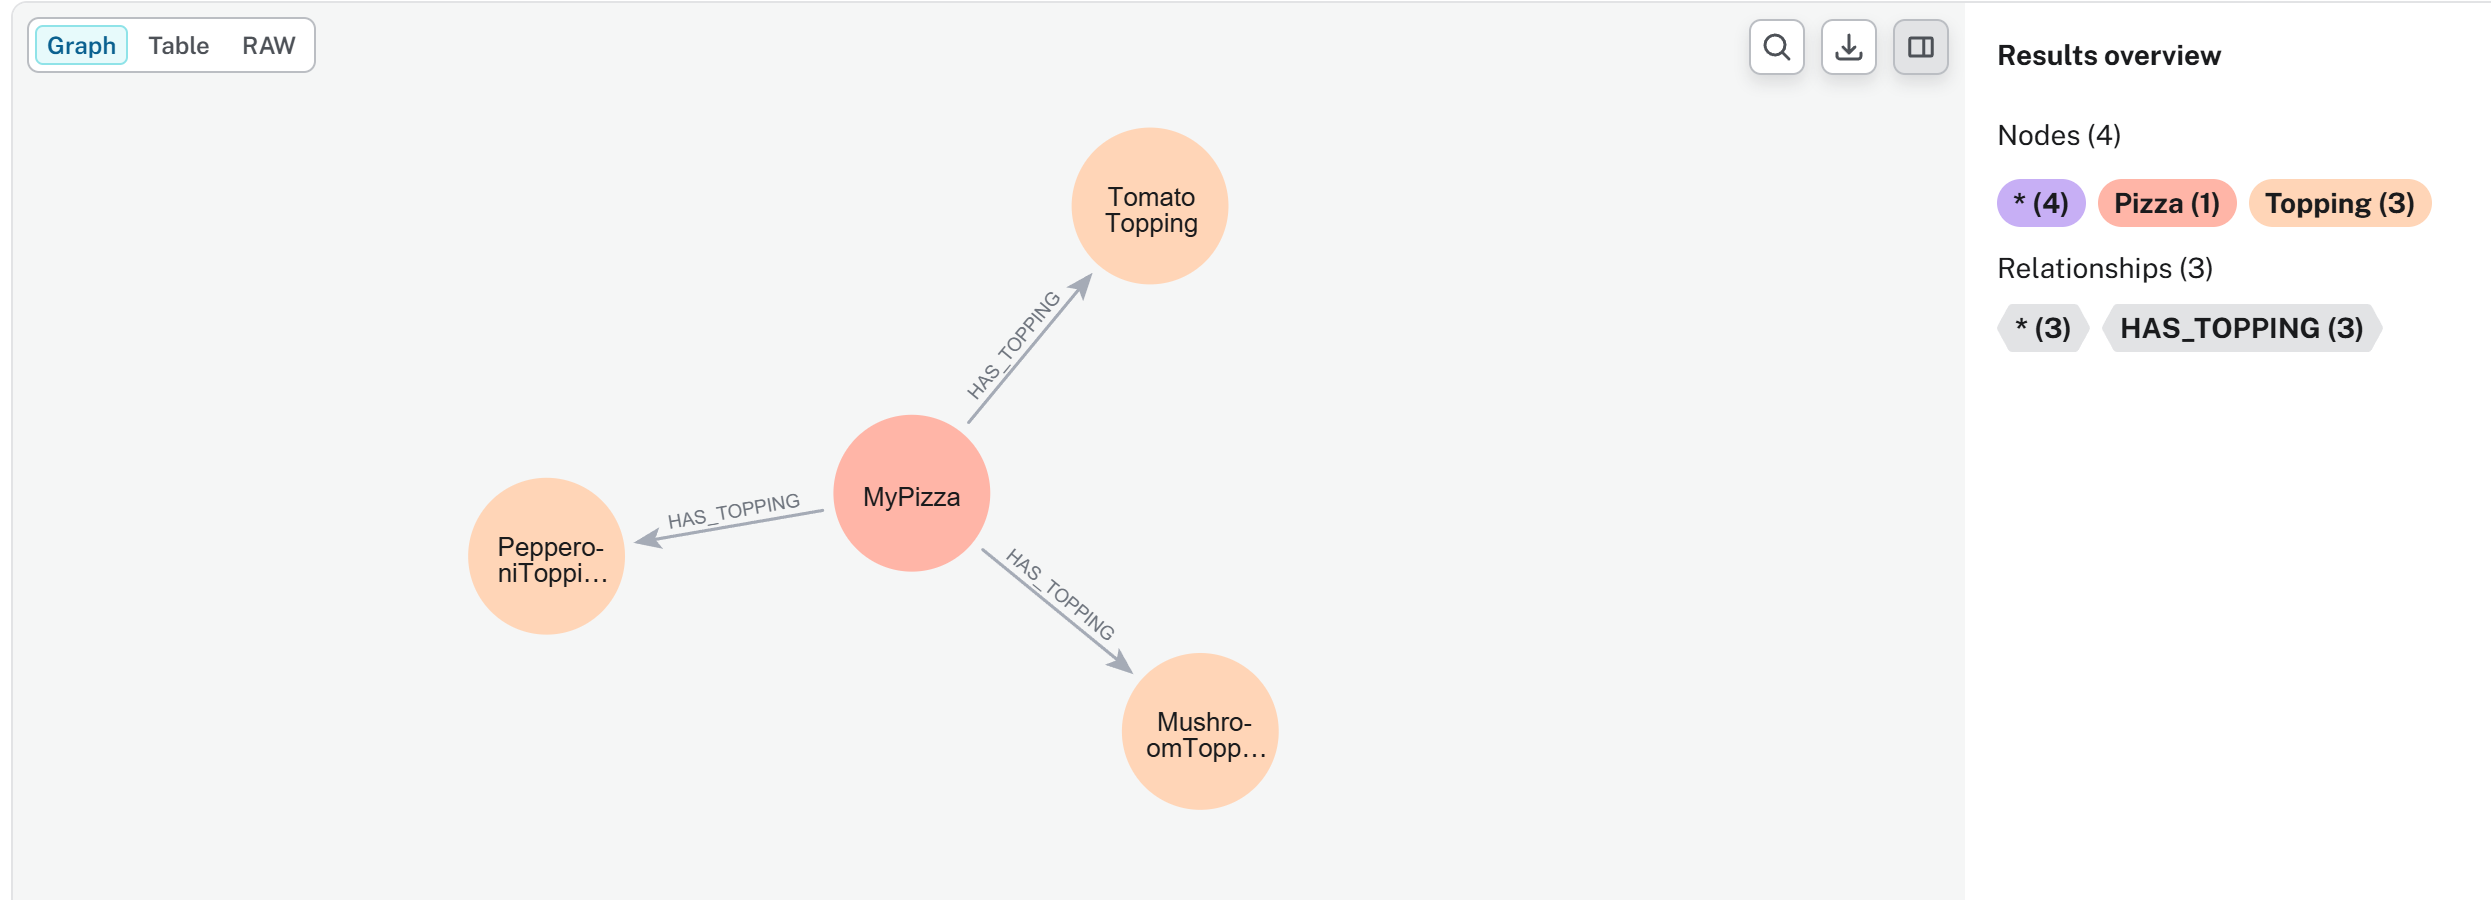
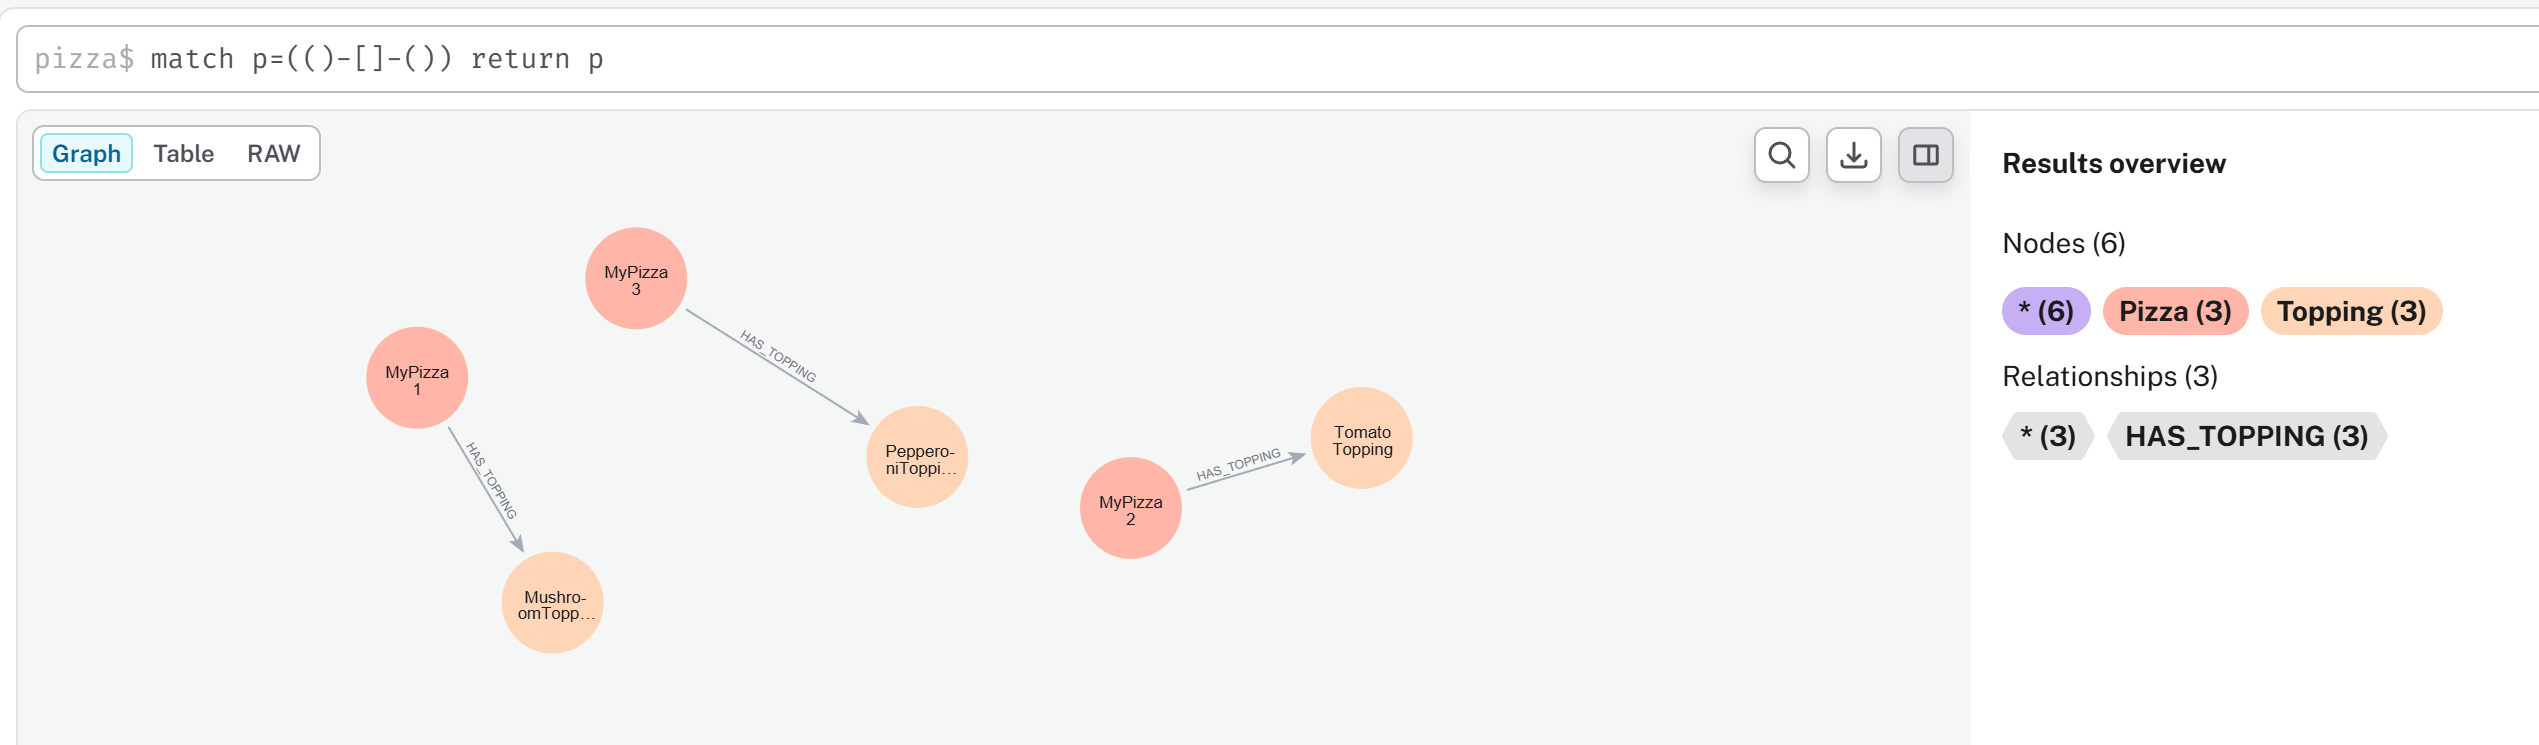
add 14.8.6.3 and 14.8.6.3

diff --git a/ebook/ch14.md b/ebook/ch14.md
@@ -37,6 +37,8 @@ Table of Contents:
   - [14.8.6 Implementing `some` and `only` in Graph Database - A Neo4j Perspective](#1486-implementing-some-and-only-in-graph-database---a-neo4j-perspective)
     - [14.8.6.1 Implementing Existential Restriction (`some`) in Neo4j](#14861-implementing-existential-restriction-some-in-neo4j)
     - [14.8.6.2 Implementing Universal Restriction (`only`) in Neo4j](#14862-implementing-universal-restriction-only-in-neo4j)
+    - [14.8.6.3 Combining `some` and `only` in Neo4j](#14863-combining-some-and-only-in-neo4j)
+    - [14.8.6.4 Cypher Query vs. Pellet Reasoner vs. Open World Assumption](#14864-cypher-query-vs-pellet-reasoner-vs-open-world-assumption)
   - [14.8.7 EKA Perspective -- Restriction as Semantic Governance](#1487-eka-perspective----restriction-as-semantic-governance)
 
 
@@ -3151,13 +3153,15 @@ A pizza may connect to `MushroomTopping`, `TomatoTopping`, or `PepperoniTopping`
 Following Cypher queries are used to create these new relationships:
 
 ```sql
-MERGE (p:Pizza {name:"MyPizza"})
+MERGE (p1:Pizza {name:"MyPizza1"})
+MERGE (p2:Pizza {name:"MyPizza2"})
+MERGE (p3:Pizza {name:"MyPizza3"})
 MERGE (t1:Topping {name:"MushroomTopping"})
 MERGE (t2:Topping {name:"TomatoTopping"})
 MERGE (t3:Topping {name:"PepperoniTopping"})
-MERGE (p)-[:HAS_TOPPING]->(t1)
-MERGE (p)-[:HAS_TOPPING]->(t2)
-MERGE (p)-[:HAS_TOPPING]->(t3)
+MERGE (p1)-[:HAS_TOPPING]->(t1)
+MERGE (p2)-[:HAS_TOPPING]->(t2)
+MERGE (p3)-[:HAS_TOPPING]->(t3)
 ```
 
 Then using below query to extract them:
@@ -3201,9 +3205,8 @@ RETURN p.name AS Pizza
 To practice above query, we need to add `VegetableTopping` as another node in Noe4j, then double assign `MushroomTopping` and `Tomatotopping` to this new node:
 
 ```sql
-MATCH (n:Topping {name:"MushroomTopping"})
-SET n:VegetableTopping
-MATCH (m:Topping {name:"TomatoTopping"})
+MATCH (n:Topping {name:"MushroomTopping"}), (m:Topping {name:"TomatoTopping"})
+SET n:VegetableTopping 
 SET m:VegetableTopping
 RETURN m, n LIMIT 25;
 ```
@@ -3241,6 +3244,151 @@ Once semantic restrictions are defined, the reasoner continuously evaluates:
 Not require engineers repeatly writing validation logic like in Neo4j.
 
 #### 14.8.6.2 Implementing Universal Restriction (`only`) in Neo4j
+
+Now consider: `hasTopping only VegetableTopping`.
+
+In mathematical notation: $\forall \: hasTopping.VegetableTopping$.
+
+Unlike existential restriction, universal restriction asks:
+
+> "Are all relationships semantically valid?"
+
+This creates an interesting challenge.
+
+Neo4j has no direct equivalent for $\forall$, instead, universal semantic are typically approximated through:
+
+> **violation detection.**
+
+Rather than proving **everything is valid.**
+
+Neo4j attempts to prove **nothing invalid exists** (or say "nothing is not invalid")
+
+For example below Cypher query:
+
+```sql
+MATCH (p:Pizza)
+WHERE NOT EXISTS {
+  MATCH (p)-[:HAS_TOPPING]->(t)
+  WHERE NOT t:VegetableTopping
+}
+RETURN p.name AS VegetarianCandidate
+```
+
+You may see below result:
+
+![ch14_22_neo4j-universal](img/ch14_22_neo4j-universal.png)
+
+> [!Note] Why here still `MyPizza1` and `MyPizza2`?
+
+This query asks:
+
+> "Can any invalid topping be found?"
+
+If no violating topping exists, the pizza passes validation.
+
+This logic closely resembles $\forall \: hasTopping.VegetableToppinbg$ where semantic correctness is evaludated through:
+
+> absense of contradiction.
+
+Notice how this aligns perfectly with the reasoning distinction discussed earlier:
+
+- `some` $\rightarrow$ for qualifying evidence
+- `only` $\rightarrow$ for violating evidence
+
+Ontology and Cypher therefore share:
+
+> similar logical goals.
+
+But they implement them differently.
+
+#### 14.8.6.3 Combining `some` and `only` in Neo4j
+
+To simulate:
+
+```
+VegetarianPizza EquivalentTo
+Pizza
+and (hasTopping some VegetableTopping)
+and (hasTopping only VegetableTopping)
+```
+
+Neo4j must manually combine **both logical conditions.**
+
+Below is the Cypher query:
+
+```sql
+MATCH (p:Pizza)
+WHERE EXISTS {
+  MATCH (p)-[:HAS_TOPPING]->(:VegetableTopping)
+}
+AND NOT EXISTS {
+  MATCH (p)-[:HAS_TOPPING]->(t)
+  WHERE NOT t:VegetableTopping
+}
+RETURN p.name AS VegetarianPizza
+```
+
+Result as below:
+
+![ch14_23_neo4j-some-only](img/ch14_23_neo4j-some-only.png)
+
+This query approximates ontology semantics by enforcing:
+
+1. At least one vegetable topping exists, and
+2. No invalid topping exists
+
+The result may appear similar to OWL reasoning.
+
+However, the implementation philosophy remains fundamentally different.
+
+Neo4j performs **procedural semantic checking.**
+
+Ontology performs **declarative semantic reasoning**.
+
+In Neo4j, engineers must repeatly write logic describing:
+
+> how validation should happen.
+
+In ontology, meaning becomes:
+
+> part of the model itself.
+
+The reasoner automatically performs **inference**, **validation** and **classification**.
+
+This reveals an important architectural distinction:
+
+- Neo4j $\rightarrow$ relationship intelligence
+- OWL $\rightarrow$ semantic intelligence
+
+Or more precisely:
+
+- Graph Database $\rightarrow$ connected facts
+- Ontology $\rightarrow$ governed meaning
+
+This distinction becomes increasingly important as enterprise knowledge graphs scale.
+
+Without ontology, semantic logic often becomes scattered across:
+
+- Cypher queries,
+- applications,
+- APIs, and
+- business rules.
+
+Over time, semantic governance becomes fragmented.
+
+Ontology instead centralizes:
+
+> meaning itself.
+
+Meaning no longer lives only inside:
+
+> application code.
+
+It becomes:
+
+> an explicit enterprise asset.
+
+#### 14.8.6.4 Cypher Query vs. Pellet Reasoner vs. Open World Assumption
 
 ### 14.8.7 EKA Perspective -- Restriction as Semantic Governance
 